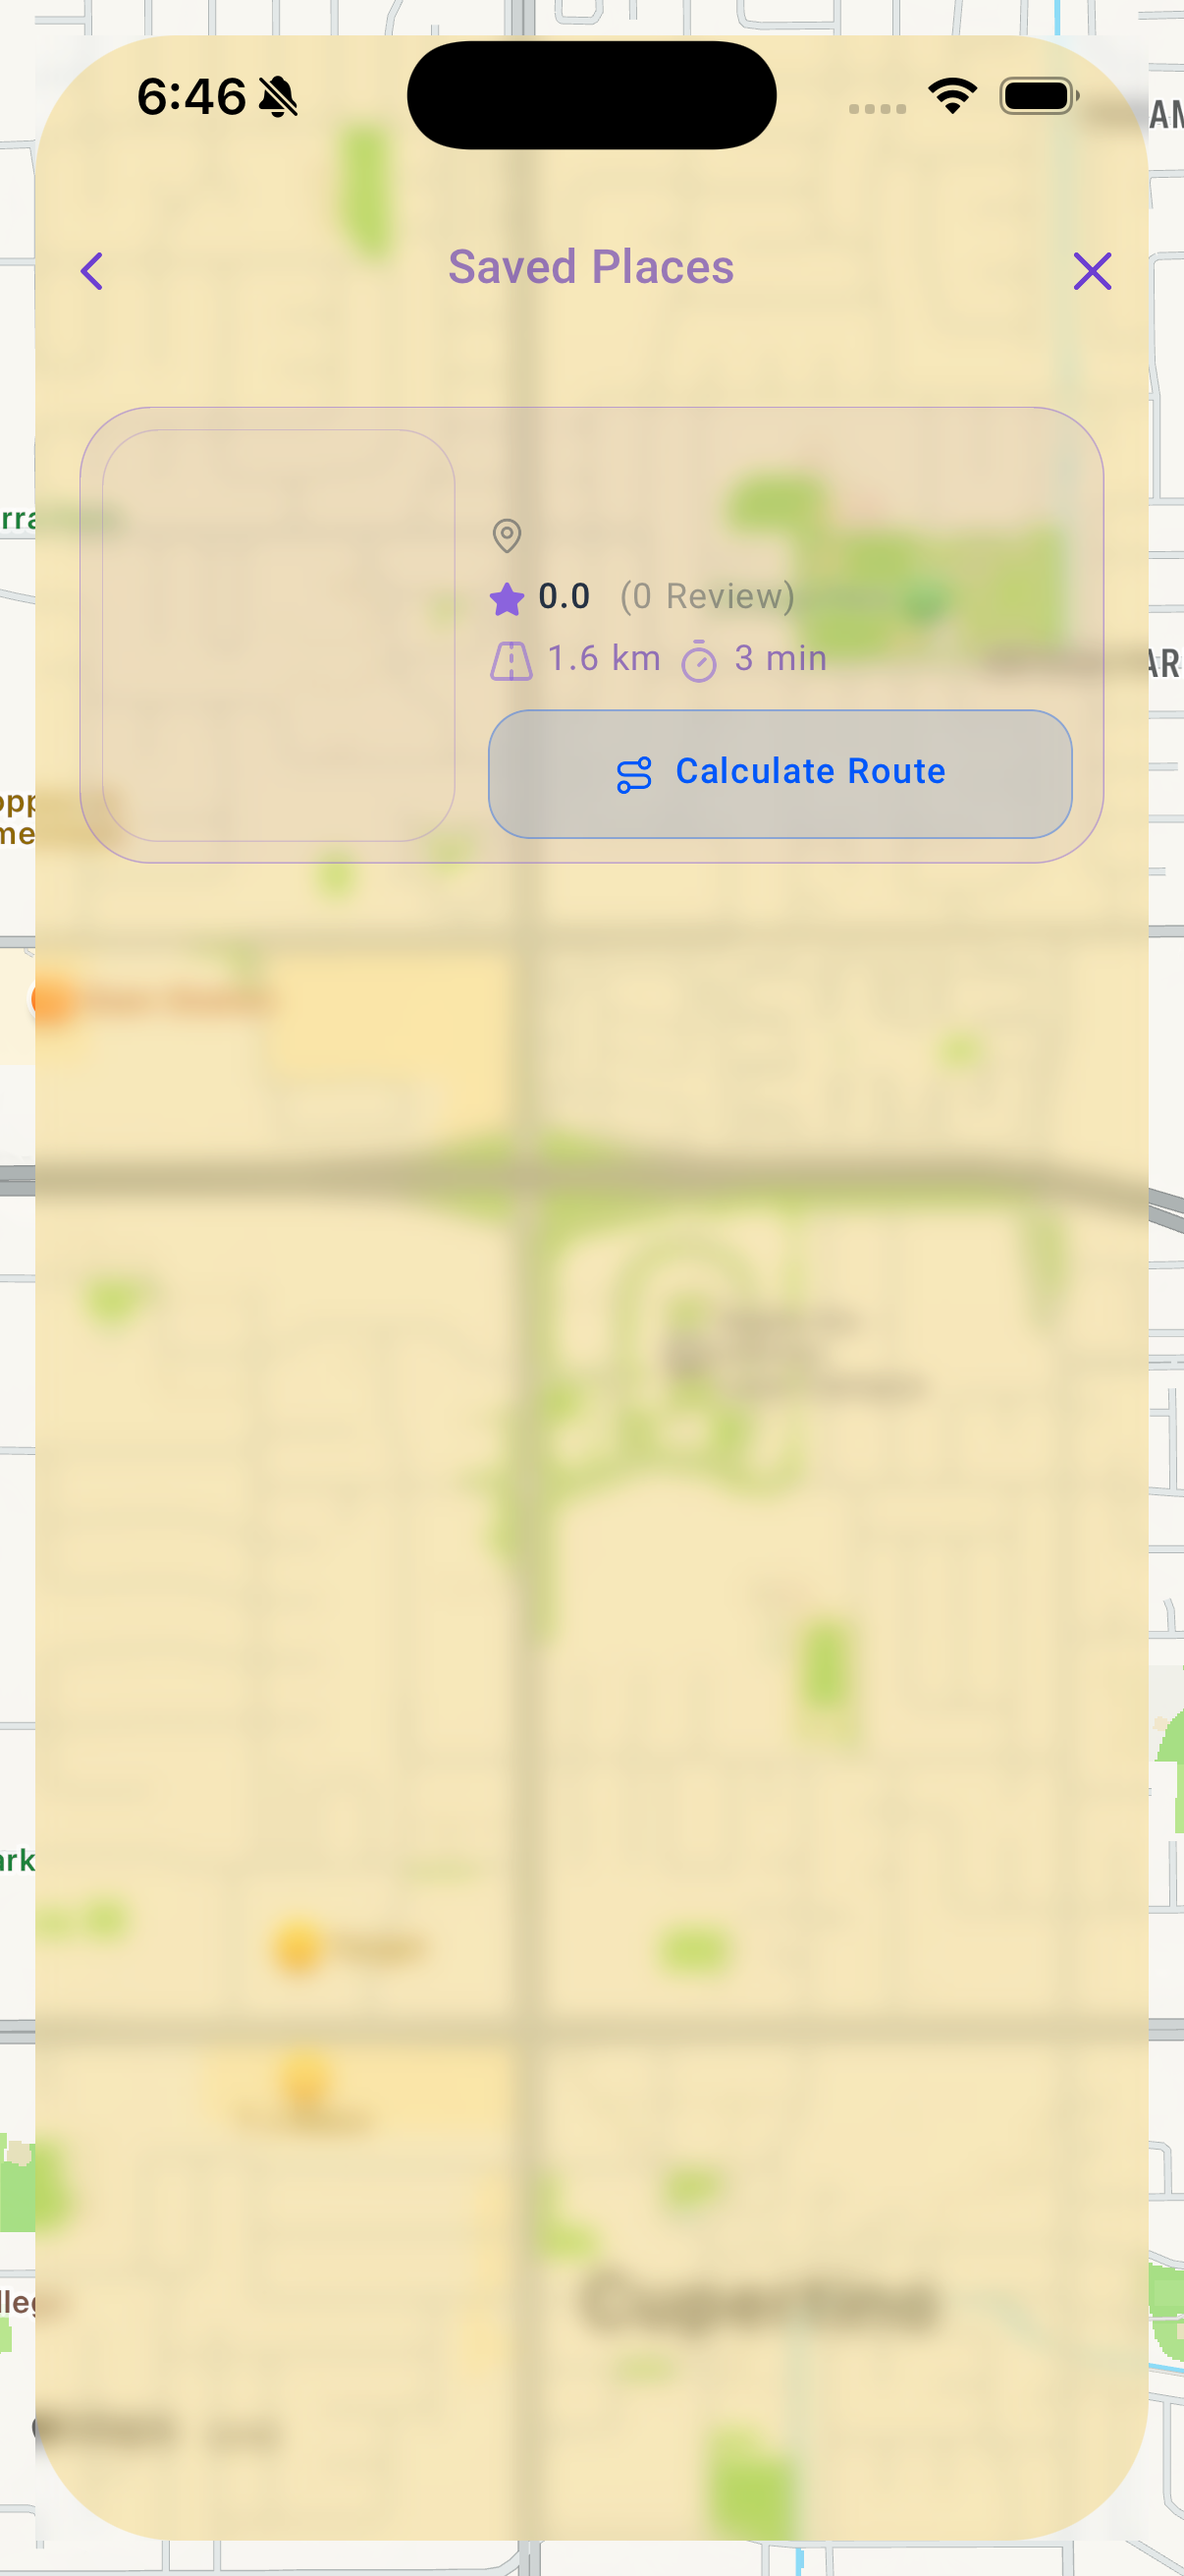
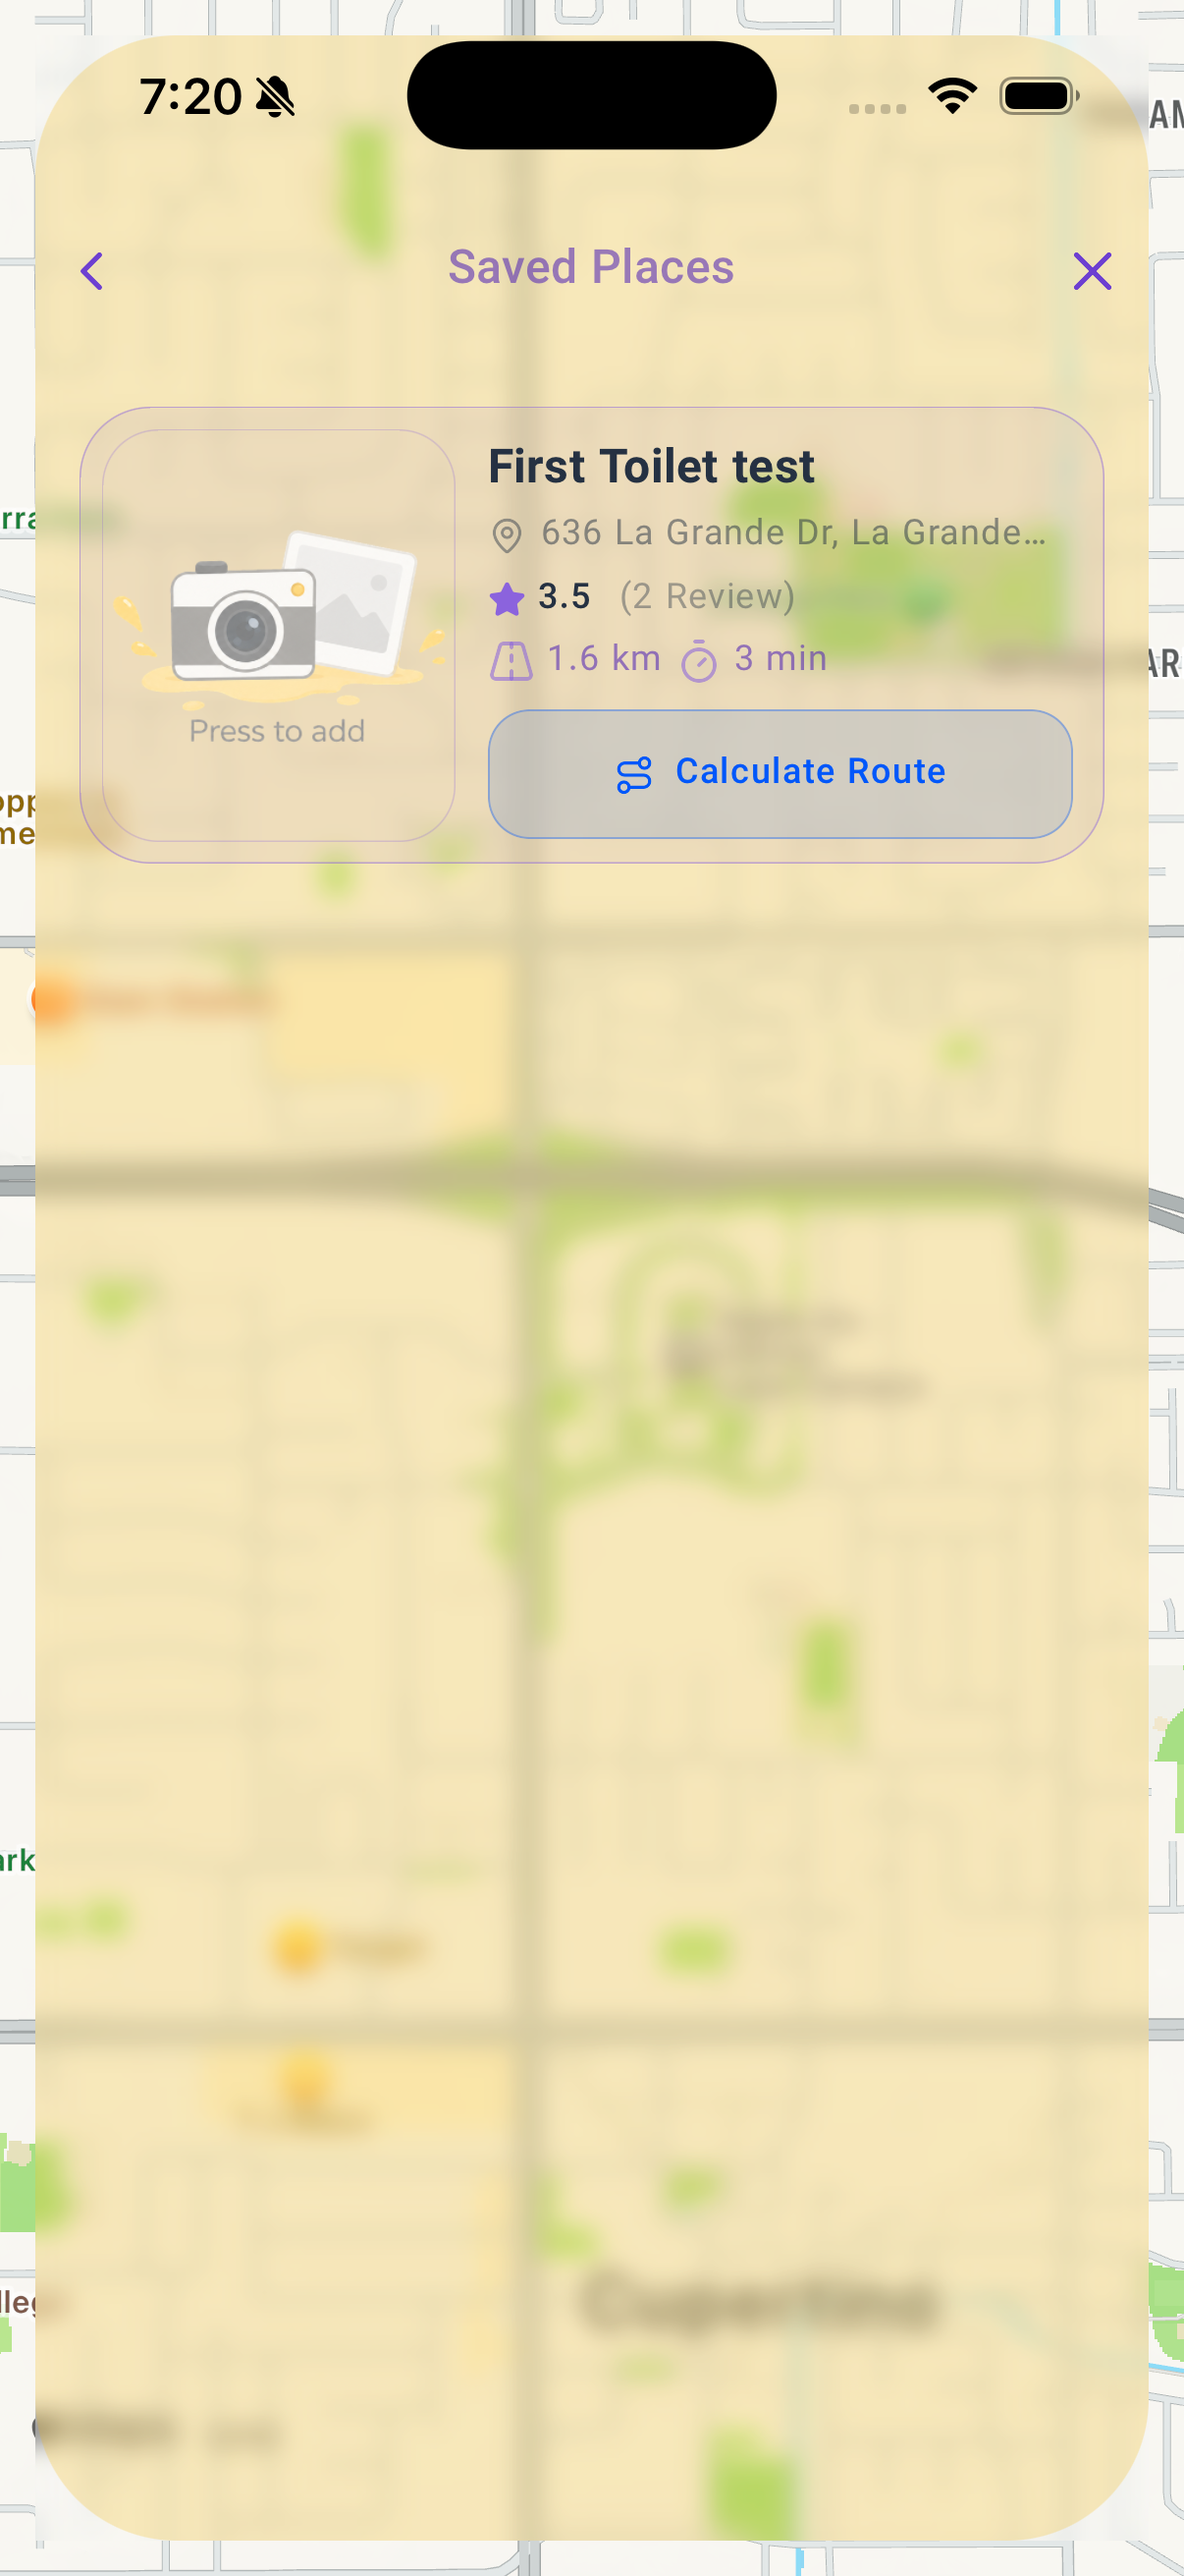
really really finished

diff --git a/frontend/components/bottomSheet/ToiletLocationBottomSheet.js b/frontend/components/bottomSheet/ToiletLocationBottomSheet.js
@@ -864,8 +864,8 @@ const ToiletInfo = forwardRef(({ curentLocation, onPresent }, ref) => {
                                             onPress={() => {
                                                 setIscommentsOpen(true);
                                             }}
-                                            backgroundColor={theme.colors.secondary + "30"}
-                                            borderColor={theme.colors.secondaryLighter + "80"}
+                                            backgroundColor={theme.colors.secondary + "15"}
+                                            borderColor={theme.colors.secondaryLighter + "50"}
                                             style={{
                                                 width: "100%",
                                                 marginTop: 15,
@@ -873,7 +873,7 @@ const ToiletInfo = forwardRef(({ curentLocation, onPresent }, ref) => {
                                         >
                                             <Text
                                                 style={{
-                                                    color: theme.colors.surface,
+                                                    color: theme.colors.secondary,
                                                 }}
                                             >
                                                 {t("components.ToiletLocationBottomSheet.seeCommentsBtn")}
@@ -884,8 +884,8 @@ const ToiletInfo = forwardRef(({ curentLocation, onPresent }, ref) => {
                                             onPress={() => {
                                                 setIscommenting(true);
                                             }}
-                                            backgroundColor={theme.colors.secondary + "30"}
-                                            borderColor={theme.colors.secondaryLighter + "80"}
+                                            backgroundColor={theme.colors.secondary + "15"}
+                                            borderColor={theme.colors.secondaryLighter + "50"}
                                             style={{
                                                 width: "100%",
                                                 marginTop: 15,
@@ -893,7 +893,7 @@ const ToiletInfo = forwardRef(({ curentLocation, onPresent }, ref) => {
                                         >
                                             <Text
                                                 style={{
-                                                    color: theme.colors.surface,
+                                                    color: theme.colors.secondary,
                                                 }}
                                             >
                                                 {t("components.ToiletLocationBottomSheet.rateAndWriteBtn")}

diff --git a/frontend/app/(auth)/SignIn.js b/frontend/app/(auth)/SignIn.js
@@ -314,7 +314,7 @@ export default function SignIn() {
                             <View>
                                 <ButtonComponent
                                     onPress={handleSubmit}
-                                    backgroundColor={theme.colors.success + '20'}
+                                    backgroundColor={theme.colors.success + '15'}
                                     borderColor={theme.colors.success + '50'}
                                     style={{
                                         width: '100%',
@@ -322,7 +322,7 @@ export default function SignIn() {
                                     }}
                                 >
                                     <Text style={{
-                                        color: theme.colors.secondary
+                                        color: theme.colors.success
                                     }}>
                                         {t("app.auth.signin.signinBtn")}
                                     </Text>
@@ -330,7 +330,7 @@ export default function SignIn() {
 
                                 <ButtonComponent
                                     onPress={handleCancel}
-                                    backgroundColor={theme.colors.error + '20'}
+                                    backgroundColor={theme.colors.error + '15'}
                                     borderColor={theme.colors.error + '50'}
                                     style={{
                                         width: '100%',
@@ -338,7 +338,7 @@ export default function SignIn() {
                                     }}
                                 >
                                     <Text style={{
-                                        color: theme.colors.secondary
+                                        color: theme.colors.error + '99'
                                     }}>
                                         {t("app.auth.signin.cancelBtn")}
                                     </Text>

diff --git a/frontend/app/(auth)/SignUp.js b/frontend/app/(auth)/SignUp.js
@@ -359,14 +359,14 @@ export default function SignUp() {
                             <View>
                                 <ButtonComponent
                                     onPress={handleSubmit}
-                                    backgroundColor={theme.colors.success + '20'}
+                                    backgroundColor={theme.colors.success + '15'}
                                     borderColor={theme.colors.success + '50'}
                                     style={{
                                         width: '100%',
                                     }}
                                 >
                                     <Text style={{
-                                        color: theme.colors.secondary
+                                        color: theme.colors.success
                                     }}>
                                         {t("app.auth.signup.signupBtn")}
                                     </Text>
@@ -374,7 +374,7 @@ export default function SignUp() {
 
                                 <ButtonComponent
                                     onPress={handleCancel}
-                                    backgroundColor={theme.colors.error + '20'}
+                                    backgroundColor={theme.colors.error + '15'}
                                     borderColor={theme.colors.error + '50'}
                                     style={{
                                         width: '100%',
@@ -382,7 +382,7 @@ export default function SignUp() {
                                     }}
                                 >
                                     <Text style={{
-                                        color: theme.colors.secondary
+                                        color: theme.colors.error + '99'
                                     }}>
                                         {t("app.auth.signup.cancelBtn")}
                                     </Text>

diff --git a/frontend/components/bottomSheet/RoutePreview.js b/frontend/components/bottomSheet/RoutePreview.js
@@ -532,14 +532,14 @@ const RoutePreview = forwardRef(({ curentLocation, toiletInfoBottomSheetRef, onD
                     >
                         <ButtonComponent
                             onPress={handleCancel}
-                            backgroundColor={theme.colors.error + '18'}
+                            backgroundColor={theme.colors.error + '15'}
                             borderColor={theme.colors.error + '50'}
                             style={{
                                 width: '30%',
                             }}
                         >
                             <Text style={{
-                                color: theme.colors.error
+                                color: theme.colors.error +'99'
                             }}>
                                 {t("components.routePreview.cancelNavigateBtn")}
                             </Text>
@@ -547,14 +547,14 @@ const RoutePreview = forwardRef(({ curentLocation, toiletInfoBottomSheetRef, onD
 
                         <ButtonComponent
                             onPress={handleStartNavigation}
-                            backgroundColor={theme.colors.success + '18'}
-                            borderColor={theme.colors.secondaryLight + '50'}
+                            backgroundColor={theme.colors.nav + '15'}
+                            borderColor={theme.colors.nav + '50'}
                             style={{
                                 width: '70%',
                             }}
                             >
                             <Text style={{
-                                color: theme.colors.secondaryLight
+                                color: theme.colors.nav
                             }}>
                                 {t("components.routePreview.navigateBtn")}
                             </Text>

diff --git a/frontend/components/bottomSheet/AddWcBottomSheet.js b/frontend/components/bottomSheet/AddWcBottomSheet.js
@@ -120,14 +120,14 @@ const AddWc = forwardRef((props, ref) => {
                 >
                     <ButtonComponent
                         onPress={handleCancel}
-                        backgroundColor={theme.colors.error + '18'}
+                        backgroundColor={theme.colors.error + '15'}
                         borderColor={theme.colors.error + '50'}
                         style={{
                             width: '30%',
                         }}
                     >
                         <Text style={{
-                            color: theme.colors.error
+                            color: theme.colors.error +'99'
                         }}>
                             {t("components.addWcBottomSheet.cancelAddWcBtn")}
                         </Text>
@@ -135,7 +135,7 @@ const AddWc = forwardRef((props, ref) => {
 
                     <ButtonComponent
                         onPress={handleAdd}
-                        backgroundColor={theme.colors.secondary + '18'}
+                        backgroundColor={theme.colors.secondary + '15'}
                         borderColor={theme.colors.secondaryLight + '50'}
                         style={{
                             width: '70%',
